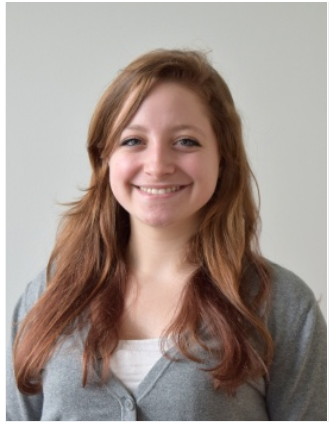
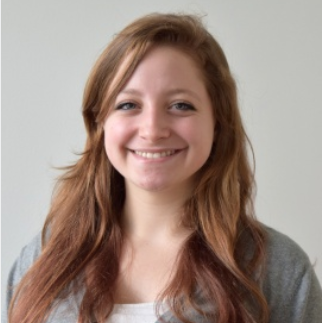
updated People.html
cropped Johanna picture, added Margaret picture & website

diff --git a/People.html b/People.html
@@ -126,9 +126,9 @@
                     </a>
                 </div>
                 <div class="col-lg-4 col-md-4">
-                    <a class="boxed-btn5">
+                    <a class="boxed-btn5" href="https://mljaniczek.github.io/" style="text-decoration: none">
                         <div class="icon">
-                            <img src="img/People/head_icon.jpg" alt="Image" height="80" width="80">
+                            <img src="img/People/Margaret.jpg" alt="Image" height="80" width="80">
                         </div>
                         <h3> Margaret Janiczek </h3>
                         <p>PhD Student</p>
